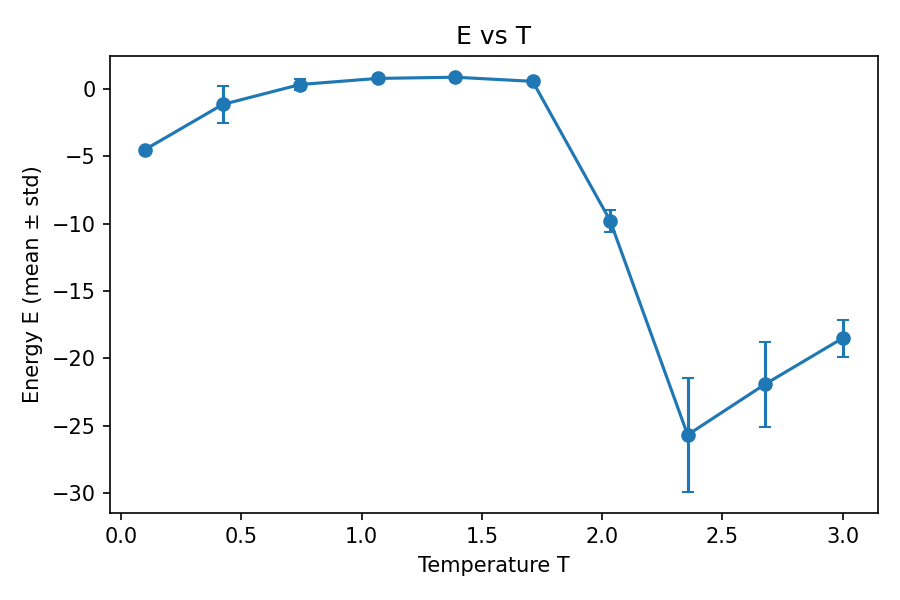
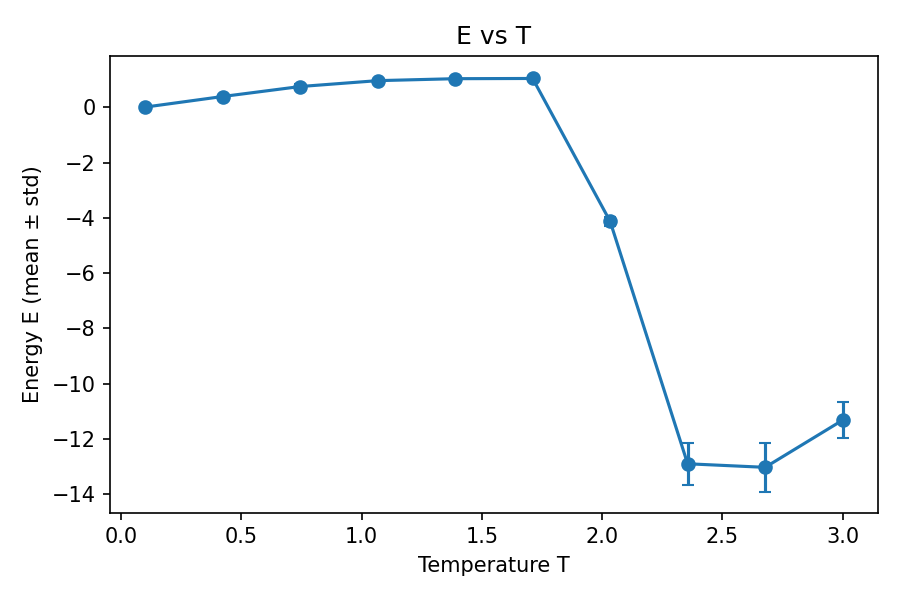
new

diff --git a/uniform chain watershell.py b/uniform chain watershell.py
@@ -250,8 +250,8 @@ def main() -> None:
     ap.add_argument('--steps',    type=int,   default=50000, help='Monte-Carlo steps')
 
     ap.add_argument('--T',        type=float, default=0.5,   help='temperature (k_B=1)')
-    ap.add_argument('--Tc',       type=float, default=1.5,   help='LCST crossover temperature')
-    ap.add_argument('--width',    type=float, default=0.2,   help='width of LCST crossover in T')
+    ap.add_argument('--Tc',       type=float, default=2.0,   help='LCST crossover temperature')
+    ap.add_argument('--width',    type=float, default=0.1,   help='width of LCST crossover in T')
 
     ap.add_argument('--eps',      type=float, default=1.0,
                     help='high-T contact strength eps_high (low-T approx 0)')

diff --git a/temp_scan.py b/temp_scan.py
@@ -15,7 +15,7 @@ import numpy as np
 import matplotlib.pyplot as plt
 from statistics import mean, stdev
 
-DEFAULT_SIM_SCRIPT = "HP_coop.py"
+DEFAULT_SIM_SCRIPT = "HP watershell.py"
 
 # fallback regex (old single-line format)
 FINAL_RE = re.compile(r"Final E\s*=\s*([-\d\.]+),\s*Rg\s*=\s*([-\d\.]+)")
